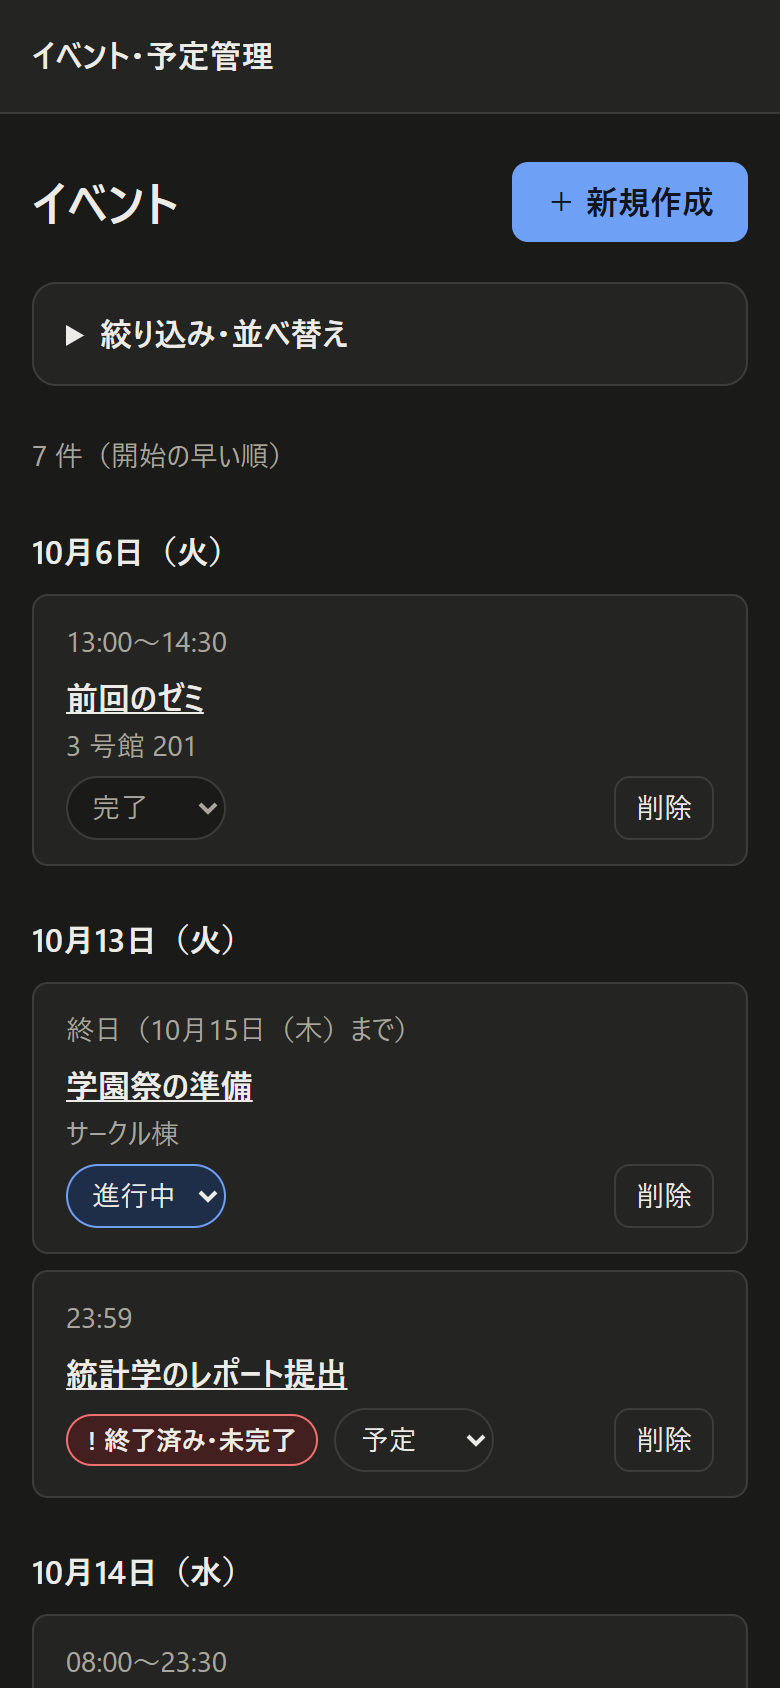
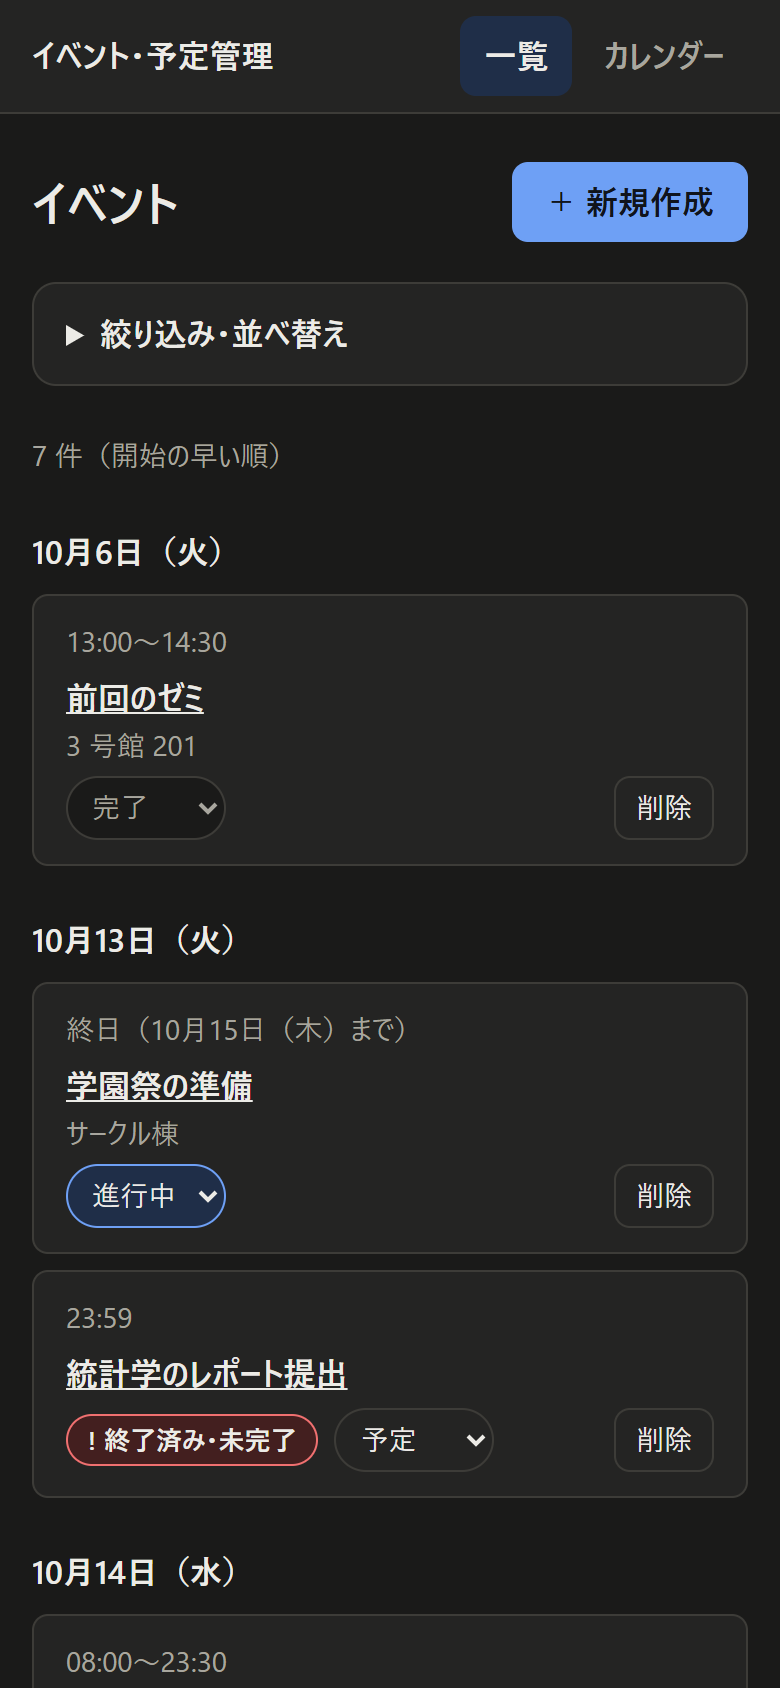
要件定義書・README を実装に合わせる (#31)
- 要件定義書 7・8：nginx は JS・CSS を直接返す、CloudFront は JS・CSS だけキャッシュ、standalone 出力を node server.js で動かす、日時は自前の関数（date.ts）で計算、DB とは TLS、seed はない、E2E にカレンダー、フォルダの表にカレンダー・DB の接続設定・スクリーンショット、N-12 の RDS の台数の記述を直す
- README：ヘッダーの切り替えと絞り込み欄の修正より前に撮ったスクリーンショット 3 枚を撮り直し、提案の画像の説明を日付に左右されない書き方にする

Changed region(s): [[0.5846, 0.0, 0.7385, 0.0616], [0.7692, 0.0308, 0.8308, 0.0616], [0.8615, 0.0308, 0.8923, 0.0616]]

diff --git a/docs/要件定義書.md b/docs/要件定義書.md
@@ -247,6 +247,7 @@ flowchart LR
     browser["ブラウザ"] --> cf["CloudFront<br/>HTTPS"]
     subgraph ec2["EC2"]
         nginx["nginx<br/>受け付け"] --> next["Next.js<br/>画面と API"]
+        nginx --> static["JS・CSS<br/>ビルドしたファイル"]
     end
     cf --> nginx
     next --> rds[("RDS<br/>MySQL 8.4")]
@@ -254,7 +255,7 @@ flowchart LR
     sch -.-> rds
 ```
 
-nginx はすべてのリクエストを Next.js に渡し、Next.js が画面と /api の両方を返す。
+nginx は、ビルドで作られる JS・CSS（/_next/static/）を直接返し、それ以外を Next.js に渡す。Next.js が画面と /api の両方を返す。CloudFront がキャッシュするのは JS・CSS だけで、DB の中身を表示する画面と /api はキャッシュしない。
 
 | ID | 項目 | 条件 |
 | --- | --- | --- |
@@ -269,7 +270,7 @@ nginx はすべてのリクエストを Next.js に渡し、Next.js が画面と
 | N-09 | 通信の形式 | 画面とサーバーは REST API（JSON）でやり取りする。公開環境は HTTPS のみ |
 | N-10 | 品質 | lint・型チェック・テストがすべて通らないと main に取り込まない（GitHub Actions で PR ごとに実行） |
 | N-11 | ソース管理 | git と GitHub。変更は Issue → ブランチ → Pull Request → squash マージで取り込む |
-| N-12 | 費用 | kadai と合わせて RDS が 2 台になるため、公開環境は普段は止め、毎晩自動で停止する |
+| N-12 | 費用 | RDS は動かしていると月 20 ドル前後かかるため、公開環境は普段は止め、毎晩自動で停止する（kadai の公開環境も同時に動かすと費用はほぼ 2 倍） |
 
 ## 8. 技術構成
 
@@ -278,14 +279,14 @@ nginx はすべてのリクエストを Next.js に渡し、Next.js が画面と
 | フォルダ・ファイル | 役割 |
 | --- | --- |
 | src/app/ | 画面（ページ）と API（`api/` の下の Route Handler） |
-| src/components/ | 画面の部品（フォーム・イベントのカード・絞り込み・確認ダイアログなど） |
-| src/lib/ | DB 処理（サービス層）・入力チェック・日時の計算・ステータスの提案 |
-| prisma/ | テーブル定義、マイグレーション、サンプルデータ |
+| src/components/ | 画面の部品（フォーム・イベントのカード・絞り込み・カレンダー・確認ダイアログなど） |
+| src/lib/ | DB 処理（サービス層）・入力チェック・日時の計算・ステータスの提案・カレンダーの日付とイベントの置き方・DB の接続設定 |
+| prisma/ | テーブル定義、マイグレーション |
 | tests/ | ユニット・API・E2E のテスト |
 | compose.yaml | 開発用の MySQL を Docker で起動する設定 |
 | docker/ | 開発用の MySQL を初めて起動するときに流す SQL（開発用ユーザーへの権限の付与） |
 | deploy/ | 公開環境の設定（Terraform、EC2 の設定、デプロイ・起動・停止のスクリプト） |
-| docs/ | 要件定義書、公開環境の説明 |
+| docs/ | 要件定義書、公開環境の説明、README のスクリーンショット |
 
 | 区分 | 用途 | 使うもの |
 | --- | --- | --- |
@@ -294,17 +295,17 @@ nginx はすべてのリクエストを Next.js に渡し、Next.js が画面と
 | 画面＋API | 実行環境・パッケージ管理 | Node.js 24（LTS）・npm |
 | 画面 | スタイル | CSS Modules |
 | 画面＋API | 入力チェック | Zod |
-| 画面 | 日時の表示 | ブラウザ標準の Intl.DateTimeFormat（Asia/Tokyo を指定） |
+| 画面＋API | 日時の計算・表示 | 自前の関数（src/lib/date.ts）。日本時間を UTC+9 として計算し、実行環境のタイムゾーンや日付の書式のデータ（ICU）に左右されない |
 | データベース | DB | MySQL 8.4 |
 | データベース | DB アクセス・テーブルの作成 | Prisma（Prisma Client・Prisma Migrate） |
 | データベース | 開発環境での起動 | Docker Compose |
 | テスト | ユニット・画面部品 | Vitest・Testing Library |
 | テスト | API | Vitest（テスト用の MySQL に対して Route Handler を呼ぶ） |
-| テスト | E2E | Playwright（作成 → 編集 → ステータス変更 → 絞り込み → 削除の通し） |
+| テスト | E2E | Playwright（作成 → 編集 → ステータス変更 → 絞り込み → 削除の通し、カレンダーの月・週の切り替えと移動） |
 | コードチェック | lint・書式・型 | ESLint（Next.js の推奨設定）・Prettier・tsc |
-| 公開環境 | 入り口・HTTPS | Amazon CloudFront（/api はキャッシュしない） |
-| 公開環境 | アプリ | Amazon EC2 1 台（Amazon Linux 2023）。nginx の後ろで Next.js を systemd で動かす |
-| 公開環境 | DB | Amazon RDS for MySQL 8.4。EC2 からだけ接続でき、パスワードは Secrets Manager |
+| 公開環境 | 入り口・HTTPS | Amazon CloudFront（キャッシュするのは JS・CSS だけ。画面と /api はキャッシュしない） |
+| 公開環境 | アプリ | Amazon EC2 1 台（Amazon Linux 2023・Node.js 24）。Next.js の standalone 出力を手元でビルドして送り、nginx の後ろで `node server.js` を systemd で動かす |
+| 公開環境 | DB | Amazon RDS for MySQL 8.4。EC2 からだけ TLS で接続でき、パスワードは Secrets Manager |
 | 公開環境 | 環境の作成・停止 | Terraform、EventBridge Scheduler（毎晩停止） |
 | 共通 | 自動チェック | GitHub Actions |
 

diff --git a/README.md b/README.md
@@ -24,7 +24,7 @@
 
 | 編集フォームのステータスの提案 | スマートフォン（ダーク） |
 | --- | --- |
-| ![日時を変えると「提案：進行中にする」が出る編集フォーム](docs/images/edit-suggestion.png) | <img src="docs/images/list-mobile-dark.png" alt="スマートフォン幅・ダークモードの一覧画面" width="300"> |
+| ![日時を変えると、日時から見て自然なステータスを「提案：〇〇にする」で示す編集フォーム](docs/images/edit-suggestion.png) | <img src="docs/images/list-mobile-dark.png" alt="スマートフォン幅・ダークモードの一覧画面" width="300"> |
 
 ## 使っている技術
 
